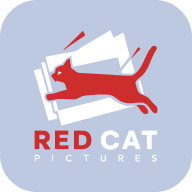
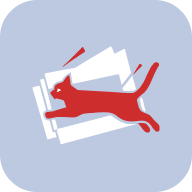
refactor: update branding and improve UI elements across the application

diff --git a/app/components/Section/FeaturedImage.vue b/app/components/Section/FeaturedImage.vue
@@ -11,9 +11,9 @@ function objectToClass({ sm, md }: { sm: Position; md: Position }, size: string)
 }
 
 const categoryImages = {
-  ecommerce: usePhoto(props.images, ['Ecommerce-012-001', 'Ecommerce-002-002', 'Product-005-001', 'Ecommerce-003-001', 'Product-010-001', 'Ecommerce-001-002', 'Ecommerce-008-002']),
-  product: usePhoto(props.images, ['Product-004-002', 'Product-015-001', 'Product-006-001', 'Product-016-005', 'Product-002-002', 'Product-013-001', 'Product-001-001']),
-  food: usePhoto(props.images, ['Food-002-001', 'Food-005-001', 'Food-003-001', 'Food-012-001', 'Food-023-001', 'Food-004-001', 'Food-001-001']),
+  ecommerce: usePhoto(props.images, ['Ecommerce-012-001', 'Ecommerce-002-002', 'Product-005-001', 'Ecommerce-003-002', 'Product-010-001', 'Ecommerce-001-004', 'Ecommerce-008-002']),
+  product: usePhoto(props.images, ['Product-004-002', 'Product-015-002', 'Product-006-001', 'Product-016-006', 'Product-002-002', 'Product-013-001', 'Product-001-001']),
+  food: usePhoto(props.images, ['Food-002-002', 'Food-005-001', 'Food-003-001', 'Food-012-001', 'Food-023-001', 'Food-004-001', 'Food-001-001']),
 }
 
 const images = computed<GalleryPhoto[]>(() =>
@@ -100,9 +100,10 @@ const activeImageName = useState()
           :width="640"
           :height="Math.round(640 / aspectRatio)"
           fit="fill"
-          format="webp"
+          format="auto"
           loading="lazy"
-          class="size-full overflow-hidden rounded-sm bg-light-600" />
+          :query="{ preview: `640x${Math.round(640 / aspectRatio)}` }"
+          class="size-full overflow-hidden rounded-sm bg-light-600 dark:bg-dark-500" />
       </NuxtLink>
     </div>
   </section>

diff --git a/app/components/Section/FeaturedVideo.vue b/app/components/Section/FeaturedVideo.vue
@@ -10,13 +10,26 @@ const currentVideo = computed(() => ({ ...props.videos[currentVideoIndex.value]!
 async function updateVideoIndex() {
   currentVideoIndex.value = (currentVideoIndex.value + 1) % props.videos.length
 }
+
+const videoContainerRef = useTemplateRef<HTMLVideoElement>('videoContainerRef')
+const videoRef = computed(() => videoContainerRef.value?.videoRef as HTMLVideoElement)
+const { isFullscreen, toggle } = useFullscreen(videoRef)
+
+async function toggleFullScreen() {
+  if (!videoRef.value) return
+  await toggle()
+
+  videoRef.value.muted = !isFullscreen.value
+  videoRef.value.play()
+}
 </script>
 
 <template>
   <section id="featured-videos" class="pb-4">
     <SectionLabel icon="movie" title="Featured Videos" />
-    <div v-if="videos.length" class="relative left-1/2 aspect-video w-screen -translate-x-1/2 overflow-hidden bg-black">
+    <div v-if="videos.length" class="relative left-1/2 flex h-screen w-screen -translate-x-1/2 items-center justify-center overflow-hidden bg-black">
       <NuxtVideo
+        ref="videoContainerRef"
         :key="currentVideoIndex"
         :poster="currentVideo.poster"
         :source="currentVideo.sources"
@@ -26,7 +39,9 @@ async function updateVideoIndex() {
         :muted="true"
         :playsinline="true"
         preload="metadata"
-        @ended="updateVideoIndex" />
+        class="aspect-video cursor-pointer"
+        @ended="updateVideoIndex"
+        @click="toggleFullScreen()" />
     </div>
   </section>
 </template>

diff --git a/app/components/AppFooter.vue b/app/components/AppFooter.vue
@@ -18,20 +18,20 @@ const emit = defineEmits<{
     <ButtonCTA class="col-span-2 col-start-1 row-start-1 self-center justify-self-center md:col-span-1 md:col-start-2 md:row-start-2" @click="emit('contact')" />
     <ul class="col-start-2 row-start-2 flex gap-4 justify-self-end *:text-white *:transition-colors *:duration-500 *:ease-out hover:*:text-dark-600 md:col-start-3 md:row-start-3 md:gap-8">
       <li>
-        <NuxtLink to="https://www.facebook.com/redcatxpictures" target="_blank">
+        <NuxtLink to="https://www.facebook.com/redcatxpictures" target="_blank" external>
           <NuxtIcon name="facebook" class="text-[28px] md:text-[40px]" />
         </NuxtLink>
       </li>
       <li>
-        <NuxtLink to="https://www.instagram.com/redcatxpictures" target="_blank">
+        <NuxtLink to="https://www.instagram.com/redcatxpictures" target="_blank" external>
           <NuxtIcon name="instagram" class="text-[28px] md:text-[40px]" />
         </NuxtLink>
       </li>
-      <!-- <li>
-				<NuxtLink to="https://www.youtube.com/" target="_blank">
-					<NuxtIcon name="youtube" class="text-[28px] md:text-[40px]" />
-				</NuxtLink>
-			</li> -->
+      <li>
+        <NuxtLink to="https://maps.app.goo.gl/a5RZtb1rxHC8MoaY6" target="_blank" external>
+          <NuxtIcon name="map" class="text-[28px] md:text-[40px]" />
+        </NuxtLink>
+      </li>
     </ul>
   </footer>
 </template>

diff --git a/app/components/AppHeader.vue b/app/components/AppHeader.vue
@@ -12,17 +12,22 @@ function onNavigate(section: string) {
       <NuxtLink to="/">
         <NuxtIcon name="logo-full" filled class="text-[80px] md:text-[112px]" />
       </NuxtLink>
-      <ul class="hidden translate-y-1 justify-center gap-8 self-start md:flex">
+      <ul class="hidden translate-y-1 justify-center gap-8 self-start whitespace-nowrap md:flex">
         <li>
-          <NuxtLink to="#featured" @click="onNavigate('featured')">Featured</NuxtLink>
+          <NuxtLink to="#hero" @click="onNavigate('hero')">Home</NuxtLink>
         </li>
         <li>
           <NuxtLink to="#gallery" @click="onNavigate('gallery')">Gallery</NuxtLink>
         </li>
         <li>
+          <NuxtLink to="#featured-images" @click="onNavigate('featured-images')">Images</NuxtLink>
+        </li>
+        <li>
+          <NuxtLink to="#featured-videos" @click="onNavigate('featured-videos')">Videos</NuxtLink>
+        </li>
+        <li>
           <NuxtLink to="#pricing" @click="onNavigate('pricing')">Pricing</NuxtLink>
         </li>
-        <!-- <li><NuxtLink to="#testimonials" @click="onNavigate('testimonials')">Testimonials</NuxtLink></li> -->
       </ul>
       <div class="col-start-3 -translate-y-1/2 justify-self-end">
         <ButtonColorMode />

diff --git a/app/components/Section/Gallery.vue b/app/components/Section/Gallery.vue
@@ -153,7 +153,17 @@ watch(offset, (value) => {
               'hidden lg:flex': slideCount == '6',
             }">
             <NuxtLink v-for="{ id, name, title } in slideImages" :key="id" :to="`/images/${name}`" class="" @click="activeImageName = name">
-              <NuxtImg provider="uploadcare" :src="id" :alt="title" :width="960" :height="Math.round(960 / (3 / 4))" fit="cover" format="webp" loading="lazy" class="w-full rounded-sm object-cover" />
+              <NuxtImg
+                provider="uploadcare"
+                :src="id"
+                :alt="title"
+                :width="960"
+                :height="Math.round(960 / (3 / 4))"
+                fit="cover"
+                format="auto"
+                loading="lazy"
+                quality="smart"
+                class="w-full rounded-sm bg-light-600 object-cover dark:bg-dark-500" />
             </NuxtLink>
           </div>
         </template>

diff --git a/app/components/Button/FloatingAction.vue b/app/components/Button/FloatingAction.vue
@@ -25,10 +25,15 @@ const categories = ref<
     title: 'food',
   },
 ])
+
+function onClick(title: Category) {
+  emit('update', title)
+  document.getElementById('featured-images')!.scrollIntoView({ behavior: 'smooth', inline: 'center' })
+}
 </script>
 
 <template>
-  <ul class="fixed bottom-4 left-1/2 z-50 flex -translate-x-1/2 gap-0.5 overflow-hidden rounded bg-white dark:bg-dark-600">
+  <ul class="fixed bottom-4 left-1/2 z-50 flex -translate-x-1/2 gap-0.5 overflow-hidden rounded bg-white drop-shadow dark:bg-dark-600">
     <ButtonLabel
       v-for="{ icon, title } in categories"
       :key="title"
@@ -37,6 +42,6 @@ const categories = ref<
       :active="title === activeCategory"
       :collapsable="true"
       class="flex-1 rounded-none md:w-52"
-      @click="emit('update', title)" />
+      @click="onClick(title)" />
   </ul>
 </template>

diff --git a/app/components/AppInstallPrompt.vue b/app/components/AppInstallPrompt.vue
@@ -11,9 +11,9 @@ function onInstall() {
 </script>
 
 <template>
-  <div v-if="$pwa?.showInstallPrompt && !$pwa?.offlineReady && !$pwa?.needRefresh" class="fixed -bottom-0.5 left-1/2 z-50 -translate-x-1/2" role="alert">
-    <button class="rounded-t-full bg-primary-500 px-2 pb-1 pt-2.5 transition-colors hover:bg-primary-400" @click="onInstall">
-      <img :src="iconLogo" alt="logo" :width="28" :height="28" class="brightness-0" />
+  <div v-if="$pwa?.showInstallPrompt && !$pwa?.offlineReady && !$pwa?.needRefresh" class="fixed bottom-28 right-0 z-50 drop-shadow-sm" role="alert">
+    <button class="rounded-l-lg bg-light-600 px-2 py-1 transition-colors hover:bg-light-500" @click="onInstall">
+      <img :src="iconLogo" alt="logo" :width="48" :height="48" class="" />
     </button>
   </div>
 </template>

diff --git a/app/components/CardPrice.vue b/app/components/CardPrice.vue
@@ -17,8 +17,8 @@ const emit = defineEmits<{
 
 <template>
   <div
-    class="my-4 flex aspect-[5/8] w-[254px] flex-col items-center justify-between rounded bg-light-500 px-5 py-8 dark:bg-dark-500 md:mx-auto md:w-[323px] md:px-9 md:py-12 xl:w-[392px]"
-    :class="{ 'scale-105 border border-primary-500': active }">
+    class="my-4 flex aspect-[5/8] w-[254px] flex-col items-center justify-between rounded bg-light-500 px-5 py-8 drop-shadow-md dark:bg-dark-500 md:mx-auto md:w-[323px] md:px-9 md:py-12 xl:w-[392px]"
+    :class="[active ? 'border border-primary-500' : 'scale-95']">
     <h2
       class="w-min whitespace-nowrap text-center text-lg text-primary-500 md:text-2xl"
       v-html="

diff --git a/nuxt.config.ts b/nuxt.config.ts
@@ -87,9 +87,9 @@ export default defineNuxtConfig({
     injectRegister: 'auto',
     registerType: 'autoUpdate',
     manifest: {
-      name: 'Red Cat Pictures',
-      short_name: 'Red Cat Pictures',
-      description: 'Elevate Your Brand Image',
+      name: 'Redcat X Pictures | Elevate Your Brand Image',
+      short_name: 'Redcat X Pictures',
+      description: 'Nurture the essence of your product with our photography & videography services in kolkata',
       theme_color: '#CD2D2D',
       background_color: '#BDC9E0',
       orientation: 'portrait',

diff --git a/app/components/NuxtVideo.vue b/app/components/NuxtVideo.vue
@@ -16,10 +16,10 @@ const props = withDefaults(
     controlsList: undefined,
     preload: 'auto',
     controls: false,
-    disablePictureInPicture: false,
     autoplay: false,
     muted: false,
     playsinline: false,
+    disablePictureInPicture: false,
   }
 )
 
@@ -27,7 +27,9 @@ const emit = defineEmits<{
   ended: []
 }>()
 
-const videoRef = ref<HTMLVideoElement>()
+const videoRef = useTemplateRef<HTMLVideoElement>('videoRef')
+
+defineExpose({ videoRef })
 
 watch(
   () => props.source,

diff --git a/app/app.vue b/app/app.vue
@@ -1,6 +1,6 @@
 <script setup lang="ts">
-const title = `Professional Food & Product photography/Videography in Kolkata`
-const description = `Nurture the essence of your food & product with our photography & videography services in Kolkata`
+const title = `Redcat X Pictures | Elevate Your Brand Image`
+const description = `Nurture the essence of your product with our photography & videography services in kolkata`
 const url = 'https://redcatpictures.com'
 
 useSeoMeta({

diff --git a/app/pages/images/[...slug].vue b/app/pages/images/[...slug].vue
@@ -32,7 +32,7 @@ useSeoMeta({
         fit="fill"
         format="webp"
         loading="lazy"
-        class="w-full rounded-sm bg-light-500 object-cover dark:bg-dark-500 md:h-full md:w-auto" />
+        class="w-full rounded-sm bg-light-600 object-cover dark:bg-dark-500 md:h-full md:w-auto" />
       <!-- <h1 class="text-center my-8">{{ activeImage.title }}</h1> -->
     </main>
   </div>
